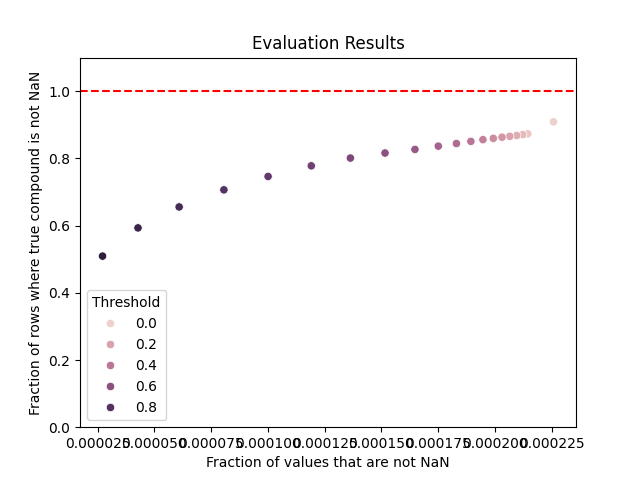
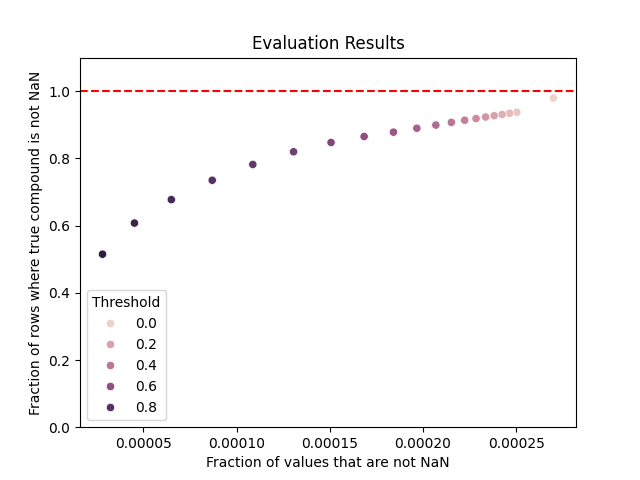
updated metfrag results and changed to 20 ppm tolerance for precursor m/z

diff --git a/src/ms2mol_evaluation/tools/metfrag.py b/src/ms2mol_evaluation/tools/metfrag.py
@@ -166,9 +166,20 @@ class MetFragEvaluation(Evaluation):
             delayed(self.run_metfrag)(spectrum)
             for spectrum in tqdm(self.msg_spectra, desc="Running metfrag")
         )
+
         resulting_dataframes = [i[2] for i in results]
         del results
         return resulting_dataframes
+
+    def concatenate_results(self, df_list: List[pd.DataFrame]) -> None:
+        assert len(df_list) == len(self.msg_spectra), "Length of df_list must match number of spectra"
+        for df,s in zip(df_list, self.msg_spectra):
+            if df.empty:
+                continue
+            df["identifier"] = s.get("identifier")
+            df["true_inchikey"] = s.get("inchikey")
+        combined_df = pd.concat(df_list, ignore_index=True)
+        combined_df.to_csv(self.output_dir / "combined_results.csv", index=False)
 
     def _create_scores_array(
         self,

diff --git a/src/ms2mol_evaluation/metfrag/metfrag_config.py b/src/ms2mol_evaluation/metfrag/metfrag_config.py
@@ -41,7 +41,7 @@ class MetFragConfig(Hashable):
             "PrecursorIonMode": adduct_to_int,
             "SampleName": str(results_file),
             "MetFragCandidateWriter": "CSV",
-            "DatabaseSearchRelativeMassDeviation": 10.0,
+            "DatabaseSearchRelativeMassDeviation": 20.0,
             "FragmentPeakMatchAbsoluteMassDeviation": 0.01,
             "IonizedPrecursorMass": precursor_mass,
             "MetFragScoreTypes": "FragmenterScore",

diff --git a/run_metfrag_eval.py b/run_metfrag_eval.py
@@ -1,6 +1,5 @@
 from pathlib import Path
-
-from matchms.similarity import FlashSimilarity
+import pandas as pd
 
 from ms2mol_evaluation import MetFragEvaluation
 
@@ -11,6 +10,7 @@ def main():
     )
 
     res = eval.run_eval(n_jobs=8)
+    eval.concatenate_results(res)
     eval.get_fraction_results(res)
     eval.get_top_n_results(res)
 
